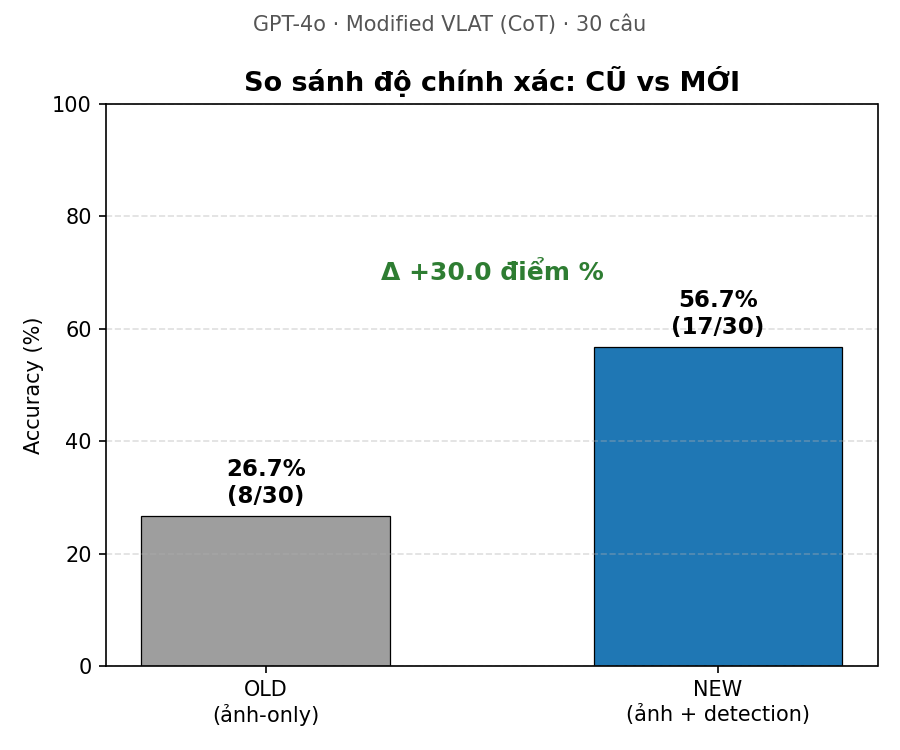
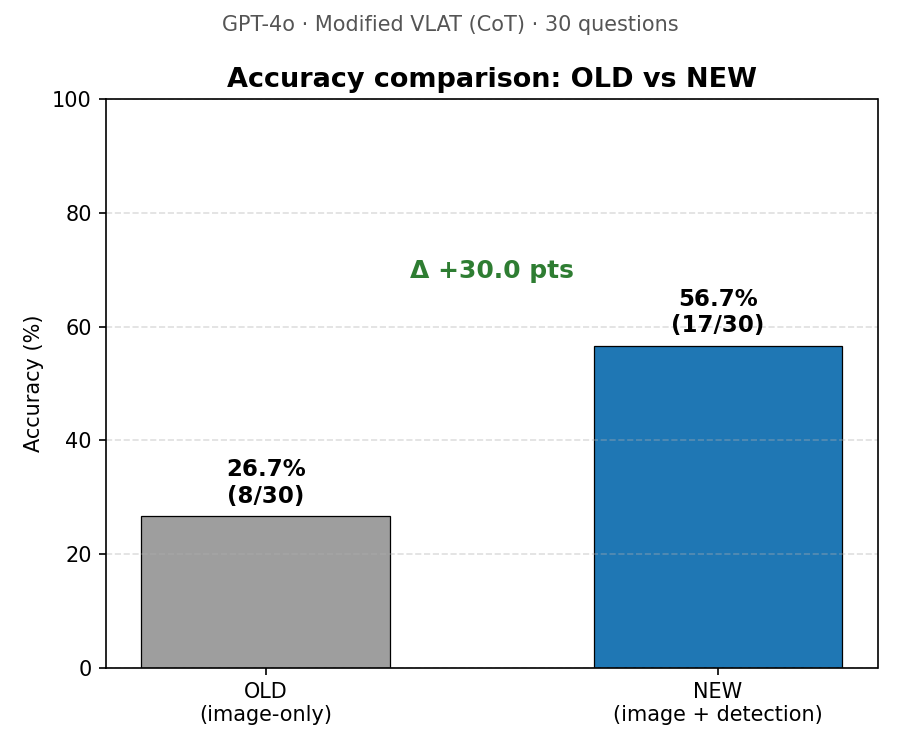
Switch report charts to English labels
- All chart titles, axis labels, legends and annotations now in English
- Fix outcome_breakdown layout (no overlap with longer English legend)

diff --git a/make_report_charts.py b/make_report_charts.py
@@ -70,7 +70,7 @@ def chart_accuracy(base_name, base, cand_name, cand, suptitle, out_path):
     cc, ct, cp = label_accuracy(cand)
 
     fig, ax = plt.subplots(figsize=(6, 5))
-    names = [f"{base_name}\n(ảnh-only)", f"{cand_name}\n(ảnh + detection)"]
+    names = [f"{base_name}\n(image-only)", f"{cand_name}\n(image + detection)"]
     vals = [bp, cp]
     colors = [C_OLD, C_NEW]
     bars = ax.bar(names, vals, color=colors, width=0.55, edgecolor="black", linewidth=0.6)
@@ -81,14 +81,14 @@ def chart_accuracy(base_name, base, cand_name, cand, suptitle, out_path):
                 ha="center", va="bottom", fontsize=11, fontweight="bold")
 
     delta = cp - bp
-    ax.annotate(f"Δ +{delta:.1f} điểm %" if delta >= 0 else f"Δ {delta:.1f} điểm %",
+    ax.annotate(f"Δ +{delta:.1f} pts" if delta >= 0 else f"Δ {delta:.1f} pts",
                 xy=(1, cp), xytext=(0.5, max(bp, cp) + 12),
                 ha="center", fontsize=12, fontweight="bold",
                 color=(C_BOTH_RIGHT if delta >= 0 else C_WRONG))
 
     ax.set_ylabel("Accuracy (%)")
     ax.set_ylim(0, max(100, max(vals) + 20))
-    ax.set_title("So sánh độ chính xác: CŨ vs MỚI", fontsize=13, fontweight="bold")
+    ax.set_title("Accuracy comparison: OLD vs NEW", fontsize=13, fontweight="bold")
     ax.grid(axis="y", linestyle="--", alpha=0.4)
     if suptitle:
         fig.suptitle(suptitle, fontsize=10, y=0.98, color="#555")
@@ -99,19 +99,21 @@ def chart_accuracy(base_name, base, cand_name, cand, suptitle, out_path):
 
 def chart_outcome_breakdown(cats, total, suptitle, out_path):
     order = [
-        ("Cả hai ĐÚNG", "both_right", C_BOTH_RIGHT),
-        ("CẢI THIỆN (MỚI đúng, CŨ sai)", "improve", C_IMPROVE),
-        ("THỤT LÙI (MỚI sai, CŨ đúng)", "regress", C_REGRESS),
-        ("Cả hai SAI", "both_wrong", C_BOTH_WRONG),
+        ("Both correct", "both_right", C_BOTH_RIGHT),
+        ("Improved (NEW right, OLD wrong)", "improve", C_IMPROVE),
+        ("Regressed (NEW wrong, OLD right)", "regress", C_REGRESS),
+        ("Both wrong", "both_wrong", C_BOTH_WRONG),
     ]
-    fig, ax = plt.subplots(figsize=(9, 2.6))
+    fig, ax = plt.subplots(figsize=(10, 3.6))
+    fig.subplots_adjust(top=0.78, bottom=0.40, left=0.04, right=0.98)
+    bar_h = 0.6
     left = 0
     for label, key, color in order:
         n = len(cats[key])
         if n == 0:
             left += n
             continue
-        ax.barh(0, n, left=left, color=color, edgecolor="white",
+        ax.barh(0, n, height=bar_h, left=left, color=color, edgecolor="white",
                 label=f"{label}: {n}")
         ax.text(left + n / 2, 0, str(n), ha="center", va="center",
                 fontsize=12, fontweight="bold",
@@ -119,16 +121,18 @@ def chart_outcome_breakdown(cats, total, suptitle, out_path):
         left += n
 
     ax.set_xlim(0, total)
+    ax.set_ylim(-0.5, 0.5)
     ax.set_yticks([])
-    ax.set_xlabel(f"Số câu (tổng {total})", labelpad=8)
-    ax.set_title("Phân rã kết quả theo câu", fontsize=13, fontweight="bold")
-    ax.legend(loc="upper center", bbox_to_anchor=(0.5, -0.6),
+    ax.set_xlabel(f"Number of questions (total {total})", labelpad=6)
+    ax.set_title("Per-question outcome breakdown", fontsize=13,
+                 fontweight="bold", pad=14)
+    ax.legend(loc="upper center", bbox_to_anchor=(0.5, -0.42),
               ncol=2, frameon=False, fontsize=10,
-              columnspacing=3.0, handletextpad=0.8)
+              columnspacing=2.5, handletextpad=0.8)
     if suptitle:
-        fig.suptitle(suptitle, fontsize=10, y=1.02, color="#555")
-    fig.tight_layout()
-    fig.savefig(out_path, dpi=150, bbox_inches="tight")
+        fig.text(0.5, 0.95, suptitle, ha="center", va="top",
+                 fontsize=10, color="#555")
+    fig.savefig(out_path, dpi=150)
     plt.close(fig)
 
 
@@ -151,11 +155,11 @@ def chart_per_question_grid(base_name, base, cand_name, cand, common, qmeta, out
     ax.set_xlim(0, n)
     ax.set_ylim(-0.6, 2)
     ax.set_yticks([1.5, 0.5])
-    ax.set_yticklabels([f"{base_name} (ảnh-only)", f"{cand_name} (ảnh+detect)"])
+    ax.set_yticklabels([f"{base_name} (image-only)", f"{cand_name} (image+detect)"])
     ax.set_xticks([])
-    ax.set_title("Đúng/Sai theo từng câu  (xanh = đúng, đỏ = sai)",
+    ax.set_title("Per-question correctness  (green = correct, red = wrong)",
                  fontsize=12, fontweight="bold")
-    ax.set_xlabel("Câu hỏi (id)", labelpad=18)
+    ax.set_xlabel("Question (id)", labelpad=18)
     for spine in ax.spines.values():
         spine.set_visible(False)
     fig.tight_layout()
@@ -169,7 +173,7 @@ def chart_net_change(cats, out_path):
     net = imp - reg
 
     fig, ax = plt.subplots(figsize=(6, 4.5))
-    bars = ax.bar(["Cải thiện", "Thụt lùi", "Thay đổi ròng"],
+    bars = ax.bar(["Improved", "Regressed", "Net change"],
                   [imp, -reg, net],
                   color=[C_IMPROVE, C_REGRESS,
                          C_BOTH_RIGHT if net >= 0 else C_WRONG],
@@ -182,8 +186,8 @@ def chart_net_change(cats, out_path):
                 fontsize=12, fontweight="bold")
 
     ax.axhline(0, color="black", linewidth=0.8)
-    ax.set_ylabel("Số câu")
-    ax.set_title("Tác động của detection (net change)", fontsize=13, fontweight="bold")
+    ax.set_ylabel("Number of questions")
+    ax.set_title("Impact of detection (net change)", fontsize=13, fontweight="bold")
     ax.grid(axis="y", linestyle="--", alpha=0.4)
     fig.tight_layout()
     fig.savefig(out_path, dpi=150)
